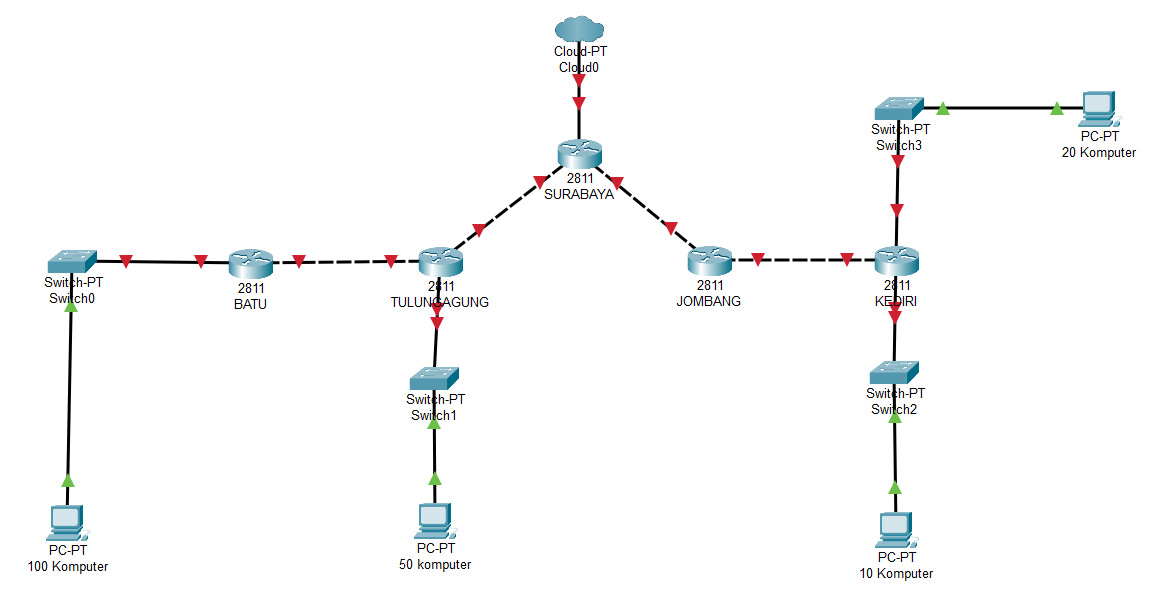
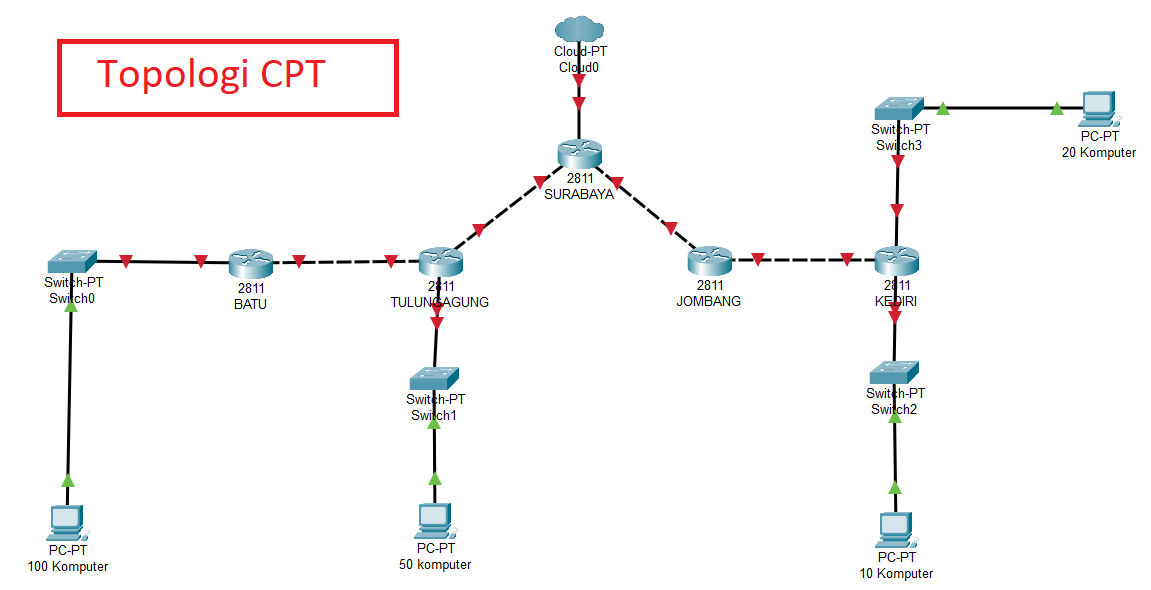
Added revision

Changed region(s): [[0.0304, 0.061, 0.3649, 0.2136]]

diff --git a/README.md b/README.md
@@ -1,8 +1,14 @@
 # Persiapan
 1. Berikut adalah topologi jaringan yang digunakan pada modul 4
+## Topologi Pada CPT
 ![Gambar](assets/TopologiWithout.png)
-Silahkan mengikuti panduan membuat UML pada [modul pengenalan UML](https://github.com/arsitektur-jaringan-komputer/Modul-Jarkom/tree/modul-uml)
-2. Menginstall *Cisco Packet Tracer* versi 7.3
+## Topologi Pada UML
+![Gambar](assets/TopologiUMLEth.png)
+- Silahkan mengikuti panduan membuat UML pada [modul pengenalan UML](https://github.com/arsitektur-jaringan-komputer/Modul-Jarkom/tree/modul-uml)
+- Untuk client menggunakan memory 64M
+- Untuk router menggunakan memory 96M
+- Untuk pembuatan topologi pada UML, diantara router juga dibuat switch.
+2. Menginstall *Cisco Packet Tracer* versi 7.3, dapat di download di https://www.netacad.com/courses/packet-tracer
 
 # SUBNETTING AND ROUTING
 
@@ -368,7 +374,7 @@ route -n
 
 ```
 
-Maka sekarang, (nama UML nya) dan _host_ pada (nama UML nya) sudah saling terhubung. Agar semua subnet dapat saling terhubung, tambahkan _static routing_ berikut :
+Maka sekarang, (nama UML nya) dan _host_ pada (nama UML nya) sudah saling terhubung. Agar semua subnet dapat saling terhubung, tambahkan _static routing_ berikut di UML dan CPT sesuai dengan synxtax masing - masing :
 
 1.  Pada SURABAYA
     
